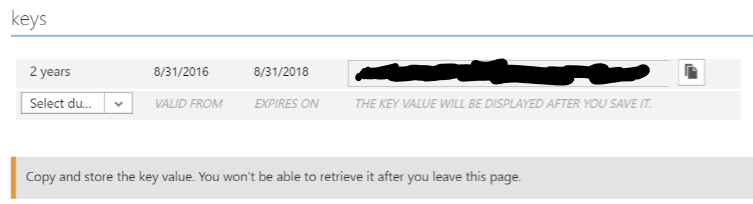
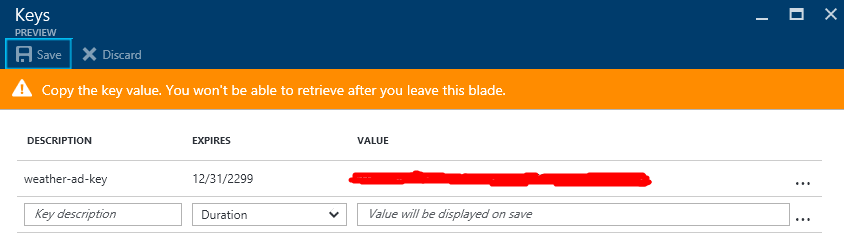
Rewrite the post to use new Azure portal features instead of old portal and command-line.

diff --git a/2016/08-Aug/08-secret-storing/secret-storing.md b/2016/08-Aug/08-secret-storing/secret-storing.md
@@ -12,96 +12,59 @@ In this post, we'll create a simple service that will compare the temperatures i
 Prerequisites
 -------------
 
-In order to be able to follow along, you'll need an [Azure account](https://azure.microsoft.com/pricing/free-trial/), and [the Azure command-line](https://github.com/azure/azure-xplat-cli).
+In order to be able to follow along, you'll need an [Azure subscription](https://azure.microsoft.com/pricing/free-trial/).
 
 Setting up Key Vault
 -------------------
 
 First, we're going to set-up Key Vault. There are quite a few steps involved, but only steps 6-8 have to be repeated for new secrets, the others being the one-time building of the vault.
 
-1. Log your console in using `azure login`.
+1. Open the [Azure portal](https://portal.azure.com) and click on "Resource groups". Choose an existing group, or create a new one. For this tutorial, we'll create a new one called "sample-weather-group". After clicking the "Create" button, you may have to wait a few seconds and refresh the list of resource groups.
 
-   ![Log-in from the CLI](01-AzureLogin.png)
+   ![Creating a new resource group](rg-01-create.png)
 
-   Follow the instructions on the screen, which will likely include using a browser to enter a validation code.
+2. Select the newly created group, then click the "Add" button over its property page. Enter "Key Vault" in the search box, and select the Key Vault service, then click "Create".
 
-2. Select the subscription you want to use, if you have more than one, using `azure account set "name of the subscription"`:
+   ![Adding the Key Vault service to the resource group](rg-02-add-key-vault.png)
 
-   ![Pick a subscription](02-PickSubscription.png)
+3. Enter "sample-weather-vault" as the name of the new vault. Select the right subscription and location, and leave the "sample-weather-group" resource group selected. Click "Create".
 
-3. Create a new resource group (change the location as needed):
+   ![Creating a new vault](rg-03-create-key-vault.png)
 
-   ```azure group create sample-weather-group -l WestUS```
+4. If you refresh the resource group property page, you'll see the new vault appear. We're now ready to add a key to it. Get an API key from [OpenWeatherMaps](http://openweathermap.org/api). Select the vault in the list of resources under the resource group, then select "Secrets". You can now click "Add" to add a new secret. Under "Upload options", select "Manual". Enter "open-weather-map-key" as the name of the secret, and paste the API key from OpenWeatherMaps into the value field. Click "Create".
 
-   You can skip this if you already have a resource group that you want to use.
-
-4. Register Key Vault with your subscription:
-
-   ```azure provider register Microsoft.Key Vault```
-
-   This only needs to be done once per subscription.
-
-5. Create a new vault under the group we created above (change the location as needed).
-
-   ```azure Key Vault create sample-weather-vault -g sample-weather-group -l WestUS```
-
-6. Get an API key from [OpenWeatherMaps](http://openweathermap.org/api).
-
-7. Create the key in the vault.
-
-   ```azure Key Vault key create sample-weather-vault open-weather-map-key -d software```
-   
-8. Store the API key on Key Vault (replace the 'x's with your actual key).
-
-   ```azure Key Vault secret set sample-weather-vault  open-weather-map-key -w xxxxxxxxxxxxxxxxxxxxxxxxxxxx```
+   ![Storing the secret in Key Vault](rg-04-create-secret.png)
 
 Preparing Active Directory authentication
 -----------------------------------------
 
 Of course, the application will need to securely connect to the vault, for which it will have to use some form of master secret.
 This is similar to the master password that a password vault uses.
-We'll use Active Directory for this. Managing Active Directory is currently done in [the old Azure portal](https://manage.windowsazure.com/).
-Once you've selected the same subscription that you used for the Key Vault, you should see the Active Directory instance that the Key Vault will be able to use to verify authentication tokens.
+We'll use Active Directory for this. To access Active Directory, in [the Azure portal](https://portal.azure.com), select "More Services" and choose "Azure Active Directory".
+In the next menu that will appear, click "App registrations"
 
-![Selecting a directory](ad-00-select.png)
-
-We'll select that instance and create a new application there.
-Go to the "Applications" tab and click the "Add" button that is in the bottom toolbar.
-
-![Adding a new application](ad-01-new-app.png)
-
-You'll then be asked to choose between an application you're developing or an application from the gallery.
-We'll choose the first option, "Add an application my organization is developing".
-
-![Choosing what kind of application to add](ad-02-add-dev-app.png)
-
-Next, you'll be asked for a name for the application.
-We'll choose "sample-weather-ad", and leave the "Web application and/or Web API" type checked.
+Click the "Add" button above the list of applications. You'll be asked for a name for the application. We'll choose "sample-weather-ad". For the application type, leave the default "Web app / API" selected., and leave the "Web application and/or Web API" type checked. We also have to provide a sign-on URL. For our purposes, this doesn't need to actually exist, but only to be unique. Click the "Create" button.
 
 ![Naming the AD application](ad-03-new-app-name.png)
 
-Then, we need to provide URIs that need to be unique, but won't actually be used for our application. They are used as identifiers, but don't need to actually exist.
+Now that the application has been created, select it in the application list, so that you can see your application's application ID. You'll need that and a key.
 
-![Specifying URIs](ad-04-app-uris.png)
+![Viewing the application's ID](ad-04-app-id.png)
 
-Now that the application has been created, go to the "Configure" tab, where you can see your application's client ID. You'll need that and a key.
-
-![Viewing the application's client ID](ad-05-configure-key)
-
-Scroll down to the keys section and add a new one.
+Click on "All settings", then select "Keys". We can add a new key by entering a description, selecting a duration, and hitting the "Save" button. If you do choose to have the key expire, you should also take the time to create a reminder on the schedule of the team in charge of managing this application.
 
 ![Adding a new key](ad-06-add-key.png)
 
-Once you've saved, the key can be viewed and copied to a safe place. Do it now, because this is the last time the Azure portal is going to show it. Also notice that this key expires, so take the time to create a reminder on the schedule of the team in charge of managing this application.
+Once you've saved, the key can be viewed and copied to a safe place. Do it now, because this is the last time the Azure portal is going to show it.
 
 ![The generated key](ad-07-the-key.png)
 
-Now we can go back to the command-line and add the client ID to the list of authorized apps for our vault. Note that using a different key and id for each application that will use the secrets makes it possible to revoke access to the whole vault for a specific application in one operation.
+Now we can go back to the command-line and add the application ID to the list of authorized apps for our vault. Note that using a different key and id for each application that will use the secrets makes it possible to revoke access to the whole vault for a specific application in one operation.
 
 We'll also need the URL of the Active Directory end point.
-This can be obtained by clicking the "View endpoints" button on the bottom of the screen.
+This is not the URL that we manually entered above when we created the AD application. It can be obtained by clicking the "Endpoints" button above the list of applications.
 
-![The "View endpoints" button](ad-08-getting-the-URL.png)
+![The "Endpoints" button](ad-08-getting-the-URL.png)
 
 The URL we want to copy for later use is the one under "OAuth 2.0 Token Endpoint".
 
@@ -110,9 +73,9 @@ From the command-line, do the following.
 
 ```azure keyvault set-policy --vault-name sample-weather-vault --spn xxxxxxxx-xxxx-xxxx-xxxx-xxxxxxxxxxxx --perms-to-secrets '[\"get\"]'```
 
-The string behind `--spn` should be replaced with the client ID from above. This command authorizes the application to get values out of the vault, but it should be pointed out that there are other Key Vault commands that can be enabled to allow the application to decrypt or sign values using stored certificates without having to read the actual secrets that can remain safely in the vault. Adapt this according to your requirements.
+The string behind `--spn` should be replaced with the application ID from above. This command authorizes the application to get values out of the vault, but it should be pointed out that there are other Key Vault commands that can be enabled to allow the application to decrypt or sign values using stored certificates without having to read the actual secrets that can remain safely in the vault. Adapt this according to your requirements.
 Note that the syntax and escaping of the "permissions to secrets" parameter, a JSON array, may vary depending on the shell you're using.
-The syntax in the sample works with PowerShell on Windows.  
+The syntax in the sample works with PowerShell on Windows.
 
 Creating the Azure function
 ---------------------------
@@ -129,7 +92,7 @@ We're going to use Azure Functions to implement the actual service, because it's
 
 2. Navigate to the new function app under your subscription, and create a new function. Name it "ParisSeattleWeatherComparison" and choose the empty C# template:
 
-   !Creating the function[](05-creating-the-function.png)
+   ![Creating the function](05-creating-the-function.png)
 
    Now we have an empty function. Let's add some meat to it.
 
